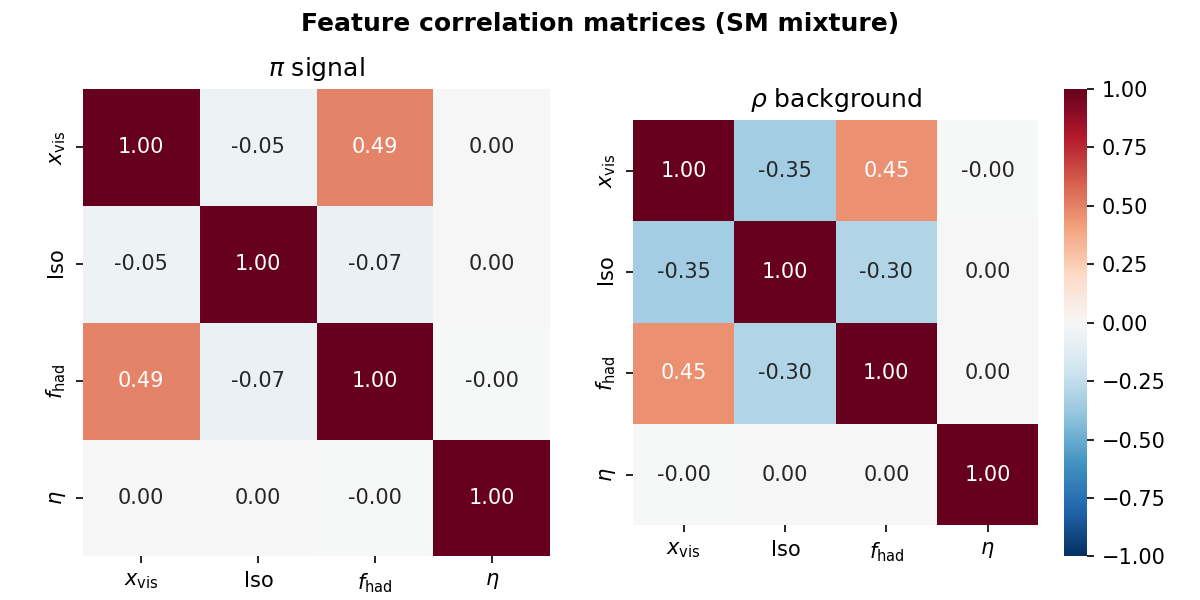
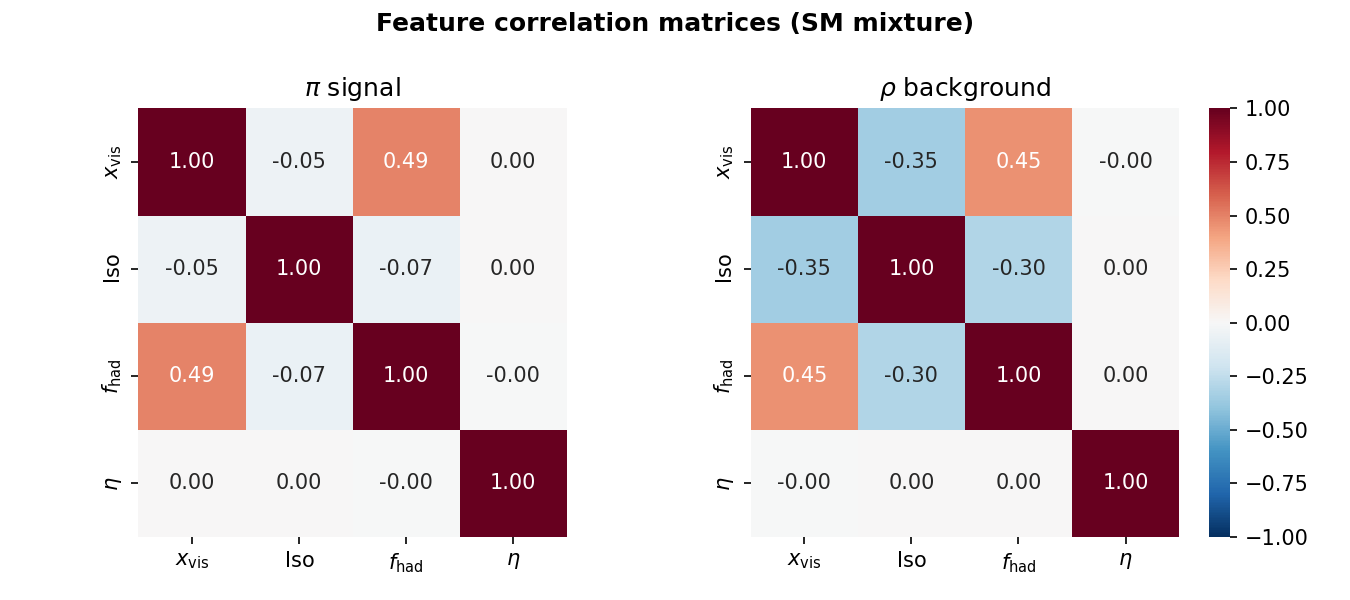
corr matrix

diff --git a/plot_data.py b/plot_data.py
@@ -80,7 +80,7 @@ if __name__ == "__main__":
 
   # correlation heatmaps — justify non-diagonal T
   feat_labels = [r'$x_\mathrm{vis}$', r'$\mathrm{Iso}$', r'$f_\mathrm{had}$', r'$\eta$']
-  fig, axes = plt.subplots(1, 2, figsize=(8, 4))
+  fig, axes = plt.subplots(1, 2, figsize=(9, 4))
   for ax, data, title in zip(axes,
                               [pi_vis, rho_vis],
                               [r'$\pi$ signal', r'$\rho$ background']):
